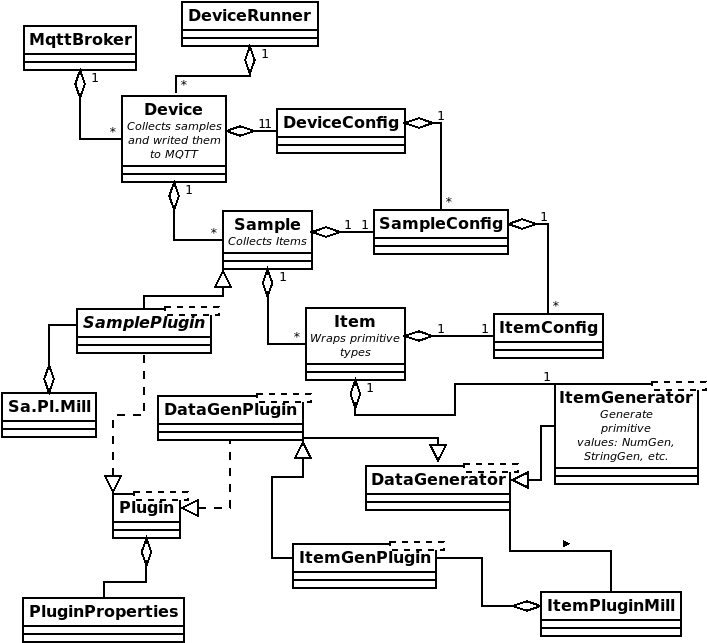
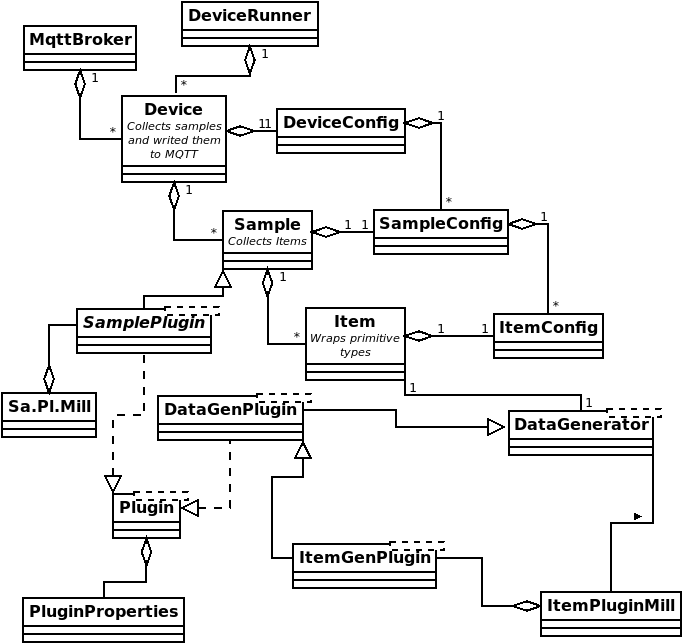
chore: update READMEs

diff --git a/README.md b/README.md
@@ -28,7 +28,7 @@ When working with virtual devices in this project, keep in mind that the followi
    * _Data Generator_ - generates primitive values of type Long, Double or String.
    * _Item_ - encapsulates the results of a Data Generator adding to them a label and a name, so that the item can be handled elsewhere. 
    * _Sample_ - encapsulates a set of Items adding with them an MQTT topic and a timestamp of when they were generated.
-   * _Device_ - encapsulates a set of Samples, times the value updates and handles communication with the MQTT broker. 
+   * _Device_ - encapsulates a set of Samples, schedules the value updates and handles communication with the MQTT broker. 
    * _DeviceRunner_ - encapsulates a set of Devices, manages their threads and sets up the broker client.  
 
 **Configurability**
@@ -58,11 +58,12 @@ For a quick peek at what this project does and how it works, try  `scripts/quick
    1. remove any copied plugins. 
    1. tear down the listener and broker.
 
-It offers four simple scenarios. 
+It offers five simple scenarios. 
 
    * `no args` - runs a simple scenario without plugins.
    * `nrf9160` - runs with the `runner.conf` file set to `examples/nrf9160/thingy91.yml`
-   * `itemPlugin` - runs a scenario with the accelerator item plugin. 
+   * `itemPlugin` - runs a scenario with the accelerator item plugin.
+   * `itemPluginRich` - runs a richer scenario with the simpleMovingAverage item plugin.
    * `samplePlugin` - runs a scenario with the lpFileReader sample plugin. 
 
 For example: 
@@ -370,11 +371,11 @@ devices:
 
 *Core Classes*
 
-![Core Classes](VirtualDeviceCoreClasses.png "Core Classes")
+![Core Classes](VirtualDeviceCoreClassesTrans.png "Core Classes")
 
 *Extended Classes*
 
-![Extended Classes](VirtualDeviceExtClasses.png "Extended Classes")
+![Extended Classes](VirtualDeviceExtClassesTrans.png "Extended Classes")
 
 ## Setting up a test ground
 

diff --git a/plugins/README.md b/plugins/README.md
@@ -174,6 +174,9 @@ _A configuration using the plugin_
       pluginName: "AcceleratorPlugin"
       resultType: "Double"
 ```
+#### Richer Item Plugins
+
+It may occur that an item plugin needs to handle more values in its configuration than those made available by default.  In this case a custom configuration extending the `ItemPluginConfig` class can be added to the plugin.  This new configuration needs to be declared through the annotation `@ItemPluginConfigClass(conf = <Configuration.Class>)` used at the start of the definition of the plugin class.  Furthermore, it needs an associated deserializer extending the class `ItemConfigDeserializer`.  See the _SimpleMovingAverage_ plugin for more insight. 
 
 ### Sample plugins
 
